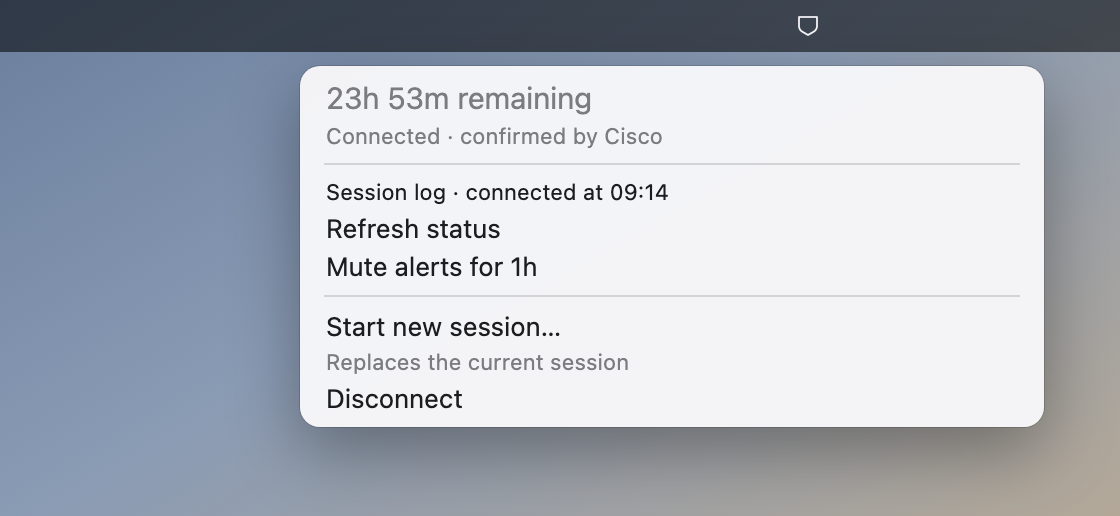
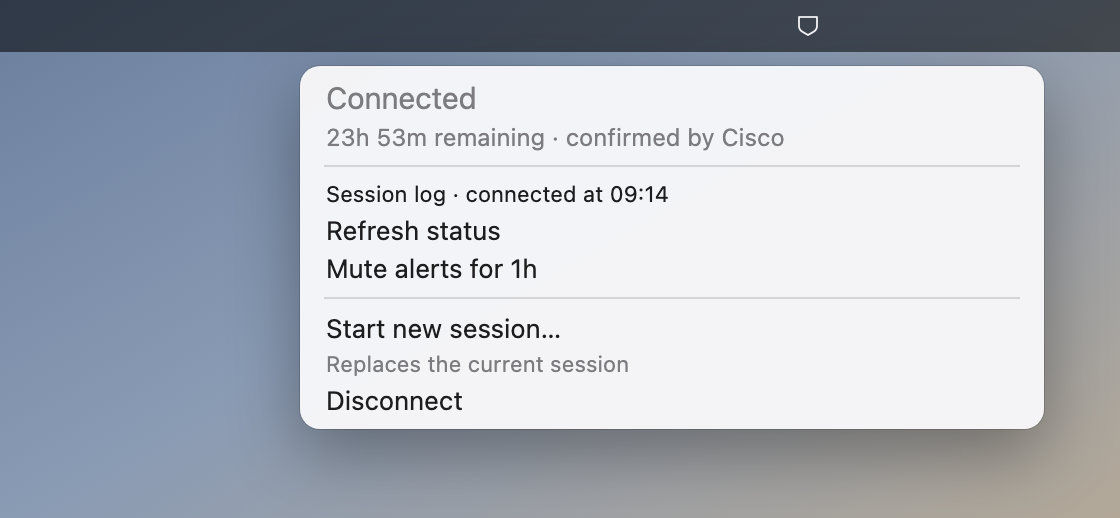
Colour the shield by state and detach scheduled sign-in
The shield no longer turns amber under an hour or red under fifteen
minutes: a confirmed session stays neutral however little time is left,
amber means changing or unconfirmed, red means stuck, delayed or missing.
VPN_ETA_CRITICAL_MINUTES and VPN_ETA_WARN_MINUTES are removed; the 60/15
notifications are unchanged. The connected menu leads with the state.

The tick that sees Cisco report Disconnected now launches the Keychain
sign-in in the background and renders "connecting…" at once, instead of
holding its output for the whole login. The attempt refreshes the plugin
when it finishes.

Not yet observed live: the detached attempt surviving its SwiftBar run
through a real session expiry. SwiftBar's source waits only on the plugin
process and kills no children, and the suite covers the detach with a
fake connector.

diff --git a/AGENTS.md b/AGENTS.md
@@ -75,7 +75,8 @@ deadline forward instead of clearing it; a Wi-Fi handover is not a session endin
 
 Carried is not confirmed, and the menu bar says which: the shield turns amber,
 then red once one transition has run past `VPN_ETA_TRANSITION_LIMIT`
-minutes — or once the carried countdown is itself critical, which outranks it. The optional
+minutes. Colour never follows the minutes left — a healthy session near its deadline stays
+neutral, and the countdown is the dropdown's and the notifications' job. The optional
 text view marks the carried number with an ellipsis. The whole clock
 rides in `record_event`'s dedupe identity (`transition|<start epoch>[ stuck]`): the identity holds
 for as long as one transition lasts, so its start survives every tick without a sixth state file,
@@ -107,6 +108,19 @@ ages them against its first timestamp; an old trace cannot hold the bar on
 `connecting` forever. A refresh at attempt start makes progress visible before
 Cisco returns, including when `stats` is unreadable, and the action refreshes
 again on completion.
+The scheduled attempt is launched **detached** from the tick that saw
+`Disconnected`: SwiftBar shows nothing new until a run exits, and a tick that
+waited for the login kept the expired session's last countdown on the bar for
+the whole sign-in. That tick renders `connecting…` itself (only when the retry
+backoff lets an attempt start), and the detached attempt refreshes the plugin
+when it finishes, success or pause.
+No plugin change reaches an **open** dropdown: SwiftBar does not process a
+`refreshplugin` URL while its menu is being tracked. Measured at the 2026-09-25
+03:21 expiry: eight refresh URLs opened between 03:21:15 and 03:21:34 were
+logged by SwiftBar as one burst only after a menu-item click closed the menu,
+so the open menu kept showing `1m remaining` over a session already renewed.
+Check SwiftBar's own log (`perform action for menu item`) before blaming a
+render path for a stale menu.
 
 Both of those last two are deadlines that suppress a notification, and neither suppresses a
 *log line* — the history is what an unexplained drop is reconstructed from later, and it is
@@ -151,6 +165,7 @@ make a test pass.
 | `VPN_ETA_LOG_BIN` | a fake `/usr/bin/log` — the only way to test the incident capture |
 | `VPN_ETA_SECURITY_BIN` | a fake `security` command for automatic-login fixtures |
 | `VPN_ETA_AUTO_CONNECT_BIN` | a fake automatic connector for retry and pause fixtures |
+| `VPN_ETA_TEST_AUTO_WAIT` | makes a tick wait for the detached scheduled login it launched |
 | `VPN_ETA_CONFIG` | the config file to source (`/dev/null` for documented defaults) |
 
 ## Adding a setting

diff --git a/README.md b/README.md
@@ -64,10 +64,13 @@ The menu bar holds one outline shield with no mark inside. Its colour changes wi
 
 | Shield colour | Means |
 |---|---|
-| Neutral | Connected. The menu shows the precise remaining time and whether it is estimated. |
-| Amber | Less than an hour remains, the connection is changing, or Cisco cannot confirm its state. Open the menu for details. |
+| Neutral | Connected, as Cisco reports it — however little time is left. The menu shows the remaining time and whether it is estimated. |
+| Amber | The connection is changing (connecting, reconnecting, automatic sign-in), or Cisco cannot confirm its state. Open the menu for details. |
 | Grey | A reported disconnect, or no session *and* no tunnel. |
-| Red | Less than fifteen minutes remain, a transition is stuck, login is delayed, or Cisco is missing. Open the menu for the reason. |
+| Red | A transition is stuck, sign-in is delayed, or Cisco is missing. Open the menu for the reason. |
+
+The colour follows the state, never the clock. How close the deadline is lives in the menu
+and in the `VPN_ETA_NOTIFY_MARKS` notifications.
 
 The installer adds a per-user watcher that requests a fresh Cisco read after a macOS network change.
 The plugin also refreshes once a minute — the `1m` in the filename — for quiet changes.
@@ -97,8 +100,6 @@ reads no `~/.zshrc`. A variable exported there reaches a terminal run and never 
 | `VPN_ETA_BAR_MODE` | `icon` | Set `countdown` to show the older text menu-bar item. |
 | `VPN_ETA_LABEL` | `VPN` | Prefix for the optional text countdown. `""` removes it. |
 | `VPN_ETA_COMPACT` | unset | In text mode, drop minutes while over an hour is left. Rounds down. |
-| `VPN_ETA_CRITICAL_MINUTES` | `15` | Shield turns red at or below this. |
-| `VPN_ETA_WARN_MINUTES` | `60` | Shield turns amber at or below this. |
 | `VPN_ETA_NOTIFY_MARKS` | `60 15` | Minutes left that raise a notification. `""` switches them off. |
 | `VPN_ETA_MUTE_MINUTES` | `60` | How long one click of `🔕 Mute alerts` lasts. `0` removes the item. |
 | `VPN_ETA_STATE_DIR` | SwiftBar's per-plugin data dir | Where the state file and `history.log` live. |

diff --git a/CHANGELOG.md b/CHANGELOG.md
@@ -3,6 +3,26 @@
 Notable changes. Dates are release dates; the format follows
 [Keep a Changelog](https://keepachangelog.com/en/1.1.0/).
 
+## [1.5.0] — 2026-09-25
+
+### Changed
+
+- The shield's colour now follows the connection's state only. A confirmed
+  session stays neutral however little time is left; amber means the
+  connection is changing or unconfirmed, and red means it is stuck, sign-in is
+  delayed, or Cisco is missing. `VPN_ETA_CRITICAL_MINUTES` and
+  `VPN_ETA_WARN_MINUTES` are gone, and the 60/15 notifications are unchanged.
+- The connected menu leads with `Connected`, then the remaining time. When
+  Cisco reports the session expiring and automatic reconnection is on, the
+  menu says it will sign in again.
+
+### Fixed
+
+- When a session expired, the last countdown (`1m`) stayed on the bar for as
+  long as the automatic sign-in took. The scheduled sign-in now runs in the
+  background: the bar switches to `connecting…` straight away and refreshes as
+  soon as Cisco answers.
+
 ## [1.4.0] — 2026-09-24
 
 ### Added
